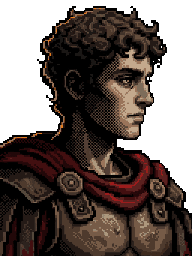
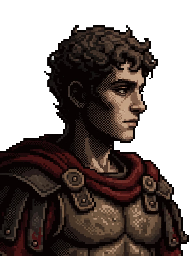
T44: tenda na entrada da Tentação, atividades do Pouso ao lado do retrato, retrato de Jorge de Alan (D-443)
Claude-Session: https://claude.ai/code/session_01DUWuezvzjAUhnjSiedgYuQ

diff --git a/docs/memory/decisions.md b/docs/memory/decisions.md
@@ -366,3 +366,4 @@ Formato: **D-número · data · quem** — decisão. *Onde está aplicada.*
 - **D-440 · 17/11/2026 · Alan** — Revisão da T44 parte 1: (1) a lanceta mostra **só o mosaico**; o nome e a descrição aparecem numa **observação no canto do campo** quando a habilidade (ou o milagre) é tocada; o custo vira marquinhas âmbar no pé da lanceta. (2) **Golpe de Escudo de Jorge** mostra o escudo, tingido de vermelho-sangue pelo filtro, para não confundir com o escudo do Amparo (`AbilityIcon.DRAWN_AS`). (3) O **Lume na caminhada** volta à haste vertical com a lamparina, como na luta e como decidido em D-257. (4) Botões, HUD e barras precisam de **acabamento** (molduras, fundo) e o **mapa** precisa de desenho de jogo, inspirado nos jogos de referência: plano das peças e custos em `docs/art/plano-acabamento-hud-mapa.md` (cerca de 120 gerações), para Alan aprovar antes de gerar.
 - **D-441 · 17/11/2026 · Alan e agente** — Conceito do acabamento aprovado (peças principais e prévias) e o **mapa da esquerda para a direita** (opção A). Geradas e montadas (cerca de 100 gerações no total do acabamento; saldo perto de 980): fundo de pedra do painel (luta, caminhada, Pouso), moldura de ferro dos blocos de ação, placa de ferro em 9 partes (observação, ficha do inimigo, mini-fichas, alforje aberto), cápsula de ferro das barras de vida, barra do chefe com pontas de garra, faixa de ferro no alto da luta, trave de ferro do mini-mapa com medalhões, e o **mapa do trecho** numa lápide de pedra com moldura de ferro: nós em medalhões, caminho de pedrinhas aceso em âmbar onde a companhia passou, lamparina no nó atual, arco do Portão (ícone novo). `tools/art/make_hud.py` prepara as peças (corta, limpa os cantos brancos da lápide, escurece a pedra). Numa luta contra chefe, a observação do canto desce para baixo da barra.
 - **D-442 · 17/11/2026 · Alan** — Acabamento aprovado, com ajustes: (1) **todos os botões simples** com o botão de ferro aprovado (`ui_button`, em 9 partes, no tema), na luta, na caminhada, no Pouso e na Vigília; (2) botões do Pouso e da Vigília **mais abaixo** e maiores; (3) textos que passavam por cima das traves de ferro: placa escura atrás do nome, posição, vida e desolação do santo na luta; nome do santo no Pouso abaixo da trave; "Rodada" e a dica abaixo da faixa do alto; nome do chefe numa placa no centro da barra, com a fase e as garras na mesma linha; (4) **um só retrato por santo**, o novo em pixel, **sempre no arco**, na luta, no Pouso e nas mini-fichas da caminhada (arco em meio tamanho); (5) na caminhada, **setas âmbar piscando** mostram para onde a companhia pode ir (frente, trás e, na bifurcação, uma sobre cada entrada) e somem em 3,5 s ou quando ela anda. 692 testes.
+- **D-443 · 17/11/2026 · Alan** — (1) **A Tentação do Círculo 2 é a tenda**: na bifurcação, a entrada que leva a uma Tentação mostra a tenda, não a passagem comum; outra Tentação, noutro círculo, terá a sua imagem conforme o contexto. (2) Pouso e Vigília: as **atividades ao lado do retrato**, centradas na altura dele; nome e estado do santo depois delas. (3) **Retrato de Jorge**: o de Alan (Meta AI) passado para a grade de 192 × 256 (um pixel do desenho por pixel, fundo cinza retirado), no lugar do gerado no PixelLab. (4) **Bento novo** gerado no PixelLab a partir da imagem de Alan (`docs/art/reference/benedict_alan_ref.jpg`): hábito preto em cinzas, capuz, livro, corvo no ombro, ponta do báculo em ouro velho, pele quente no prompt; 10 gerações; candidato em `docs/art/reference/benedict_px_candidate_v5.png`, aguardando aprovação para trocar (e refazer as animações).
